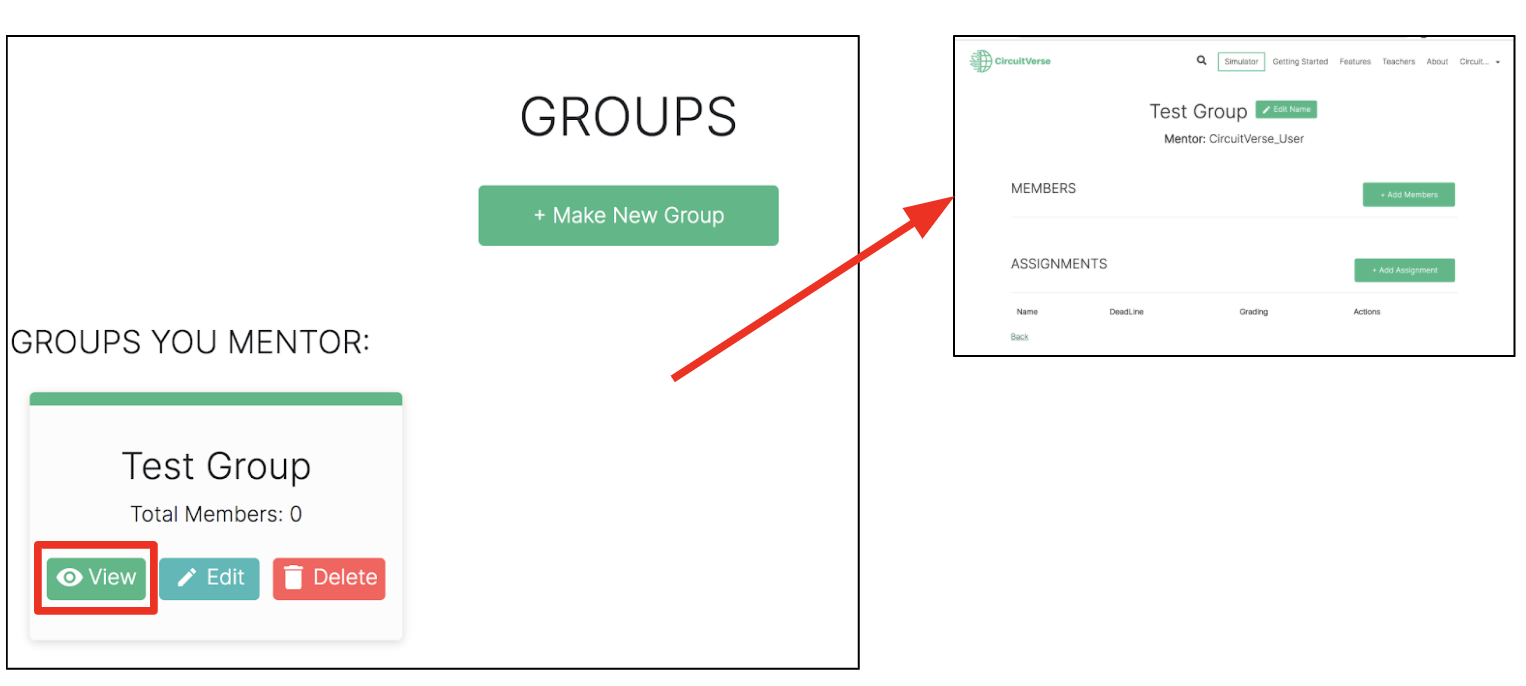
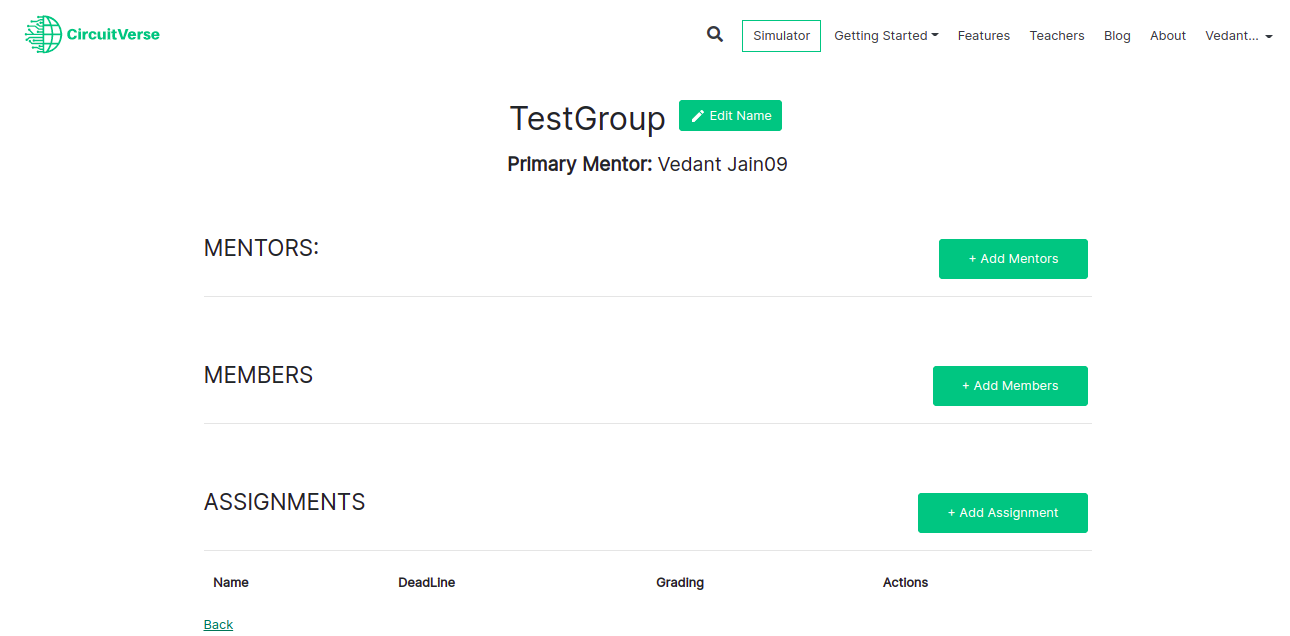
[documenation] : Support Multiple Mentors

diff --git a/docs/chapter2/2cvforeducators.md b/docs/chapter2/2cvforeducators.md
@@ -1,6 +1,7 @@
 # CircuitVerse for Educators
 While understanding and learning the concepts of digital circuit design, students must learn through simulation of daily engineering tasks, including design verification and testing. This section highlights how educators can use the CircuitVerse tool as an educational tool for managing student groups, assignments and grades in one place (refer Figure 2.2). Some of the key workflows available within the CV tool include:
 *   Create different student groups for different coursework
+*   Add mentors to different student groups
 *   Add members to different student groups
 *   Add assignments for student groups while managing the deadlines and the grading scale
 *   Grade assignments for different student groups
@@ -53,6 +54,54 @@ After successfully logging into your account, follow the below steps to create a
 
 Additionally, a successful group creation message is sent to the registered email address.
 
+## Add Group Mentors
+
+This section highlights the different steps for adding members to a group. 
+
+Follow the below steps to add group members to a selected group:
+
+1. Navigate to **Login** displayed in the upper right hand corner of your screen and login to the portal. (Refer Figure 2.9)
+
+    ![](../images/img_chapter2/2.3.png)
+    <div align="center"> <em>Figure 2.9</em></div>
+
+2. Click on **My Groups** to display the GROUPS page as shown in Figure 2.10. This page lists the different groups you are associated with.
+
+    ![](../images/img_chapter2/2.4.png)
+
+    <div align="center"> <em>Figure 2.10</em></div>
+
+3. Select the group to which you wish to add your students and click on the **View** icon (refer Figure 2.11) to display the next page for adding members and assignments.
+
+    ![alt_text](../images/img_chapter2/2.11.png)
+
+    <div align="center"> <em>Figure 2.11</em></div>
+
+4. Click on **+Add Mentors** button to add members to the selected group. An **Add Mentors** pop up window is displayed (refer Figure 2.11.1).
+
+    ![alt_text](../images/img_chapter2/2.58.png)
+
+    <div align="center"> <em>Figure 2.11.1</em></div>
+
+5. Enter Email IDs separated by commas, spaces or list them individually in separate lines in the **Email IDs:** text field box. Refer Figure 2.11.2.
+
+   ![](../images/img_chapter2/2.59.png)
+
+   <div align="center"> <em>Figure 2.11.2</em></div>
+
+6. Click on **Add mentors** to complete the process. Refer Figure 2.11.3.
+
+   ![](../images/img_chapter2/2.60.png)
+
+   <div align="center"> <em>Figure 2.11.3</em></div>
+
+7. The group mentors will be listed in the **MENTORS** section. Refer Figure 2.11.4.
+
+   ![](../images/img_chapter2/2.61.png)
+
+   <div align="center"> <em>Figure 2.11.4</em></div>
+
+> NOTE: If a mentor is already registered with CircuitVerse, the mentor will be added automatically. Alternatively,  the mentor receives an email invitation to register with CircuitVerse. Once the mentor completes the registration process, the mentor will be automatically added/listed to the group.
 
 ## Add Group Members
 
@@ -106,6 +155,46 @@ Follow the below steps to add group members to a selected group:
 ![](../images/img_chapter2/2.16.png)
 
 <div align="center"> <em>Figure 2.16</em></div>
+
+## Switch Roles
+
+This section describes you the way to switch the roles, i.e., mentor to member or member to mentor.
+
+#### Member to Mentor
+
+1. All members are being listed under the **MEMBERS** section.
+
+    ![](../images/img_chapter2/2.62.png)
+
+2. Click on the **Make mentor** button in the desired Member container.
+
+    ![](../images/img_chapter2/2.63.png)
+
+3. Popup will be displayed for the confirmation, you can check the mentor accessibilities.
+
+    ![](../images/img_chapter2/2.64.png)
+
+4. Click on **Make mentor** and you are all done!
+
+    ![](../images/img_chapter2/2.65.png)
+
+#### Mentor to Member
+
+1. All mentors are being listed under the **MENTORS** section.
+
+   ![](../images/img_chapter2/2.66.png)
+
+2. Click on the **Make mentor** button in the desired Mentor container.
+
+   ![](../images/img_chapter2/2.67.png)
+
+3. Popup will be displayed for the confirmation, you can check the member accessibilities.
+
+   ![](../images/img_chapter2/2.68.png)
+
+4. Click on **Make mentor** and you are all done!
+
+   ![](../images/img_chapter2/2.69.png)
 
 
 ## Add Assignments
